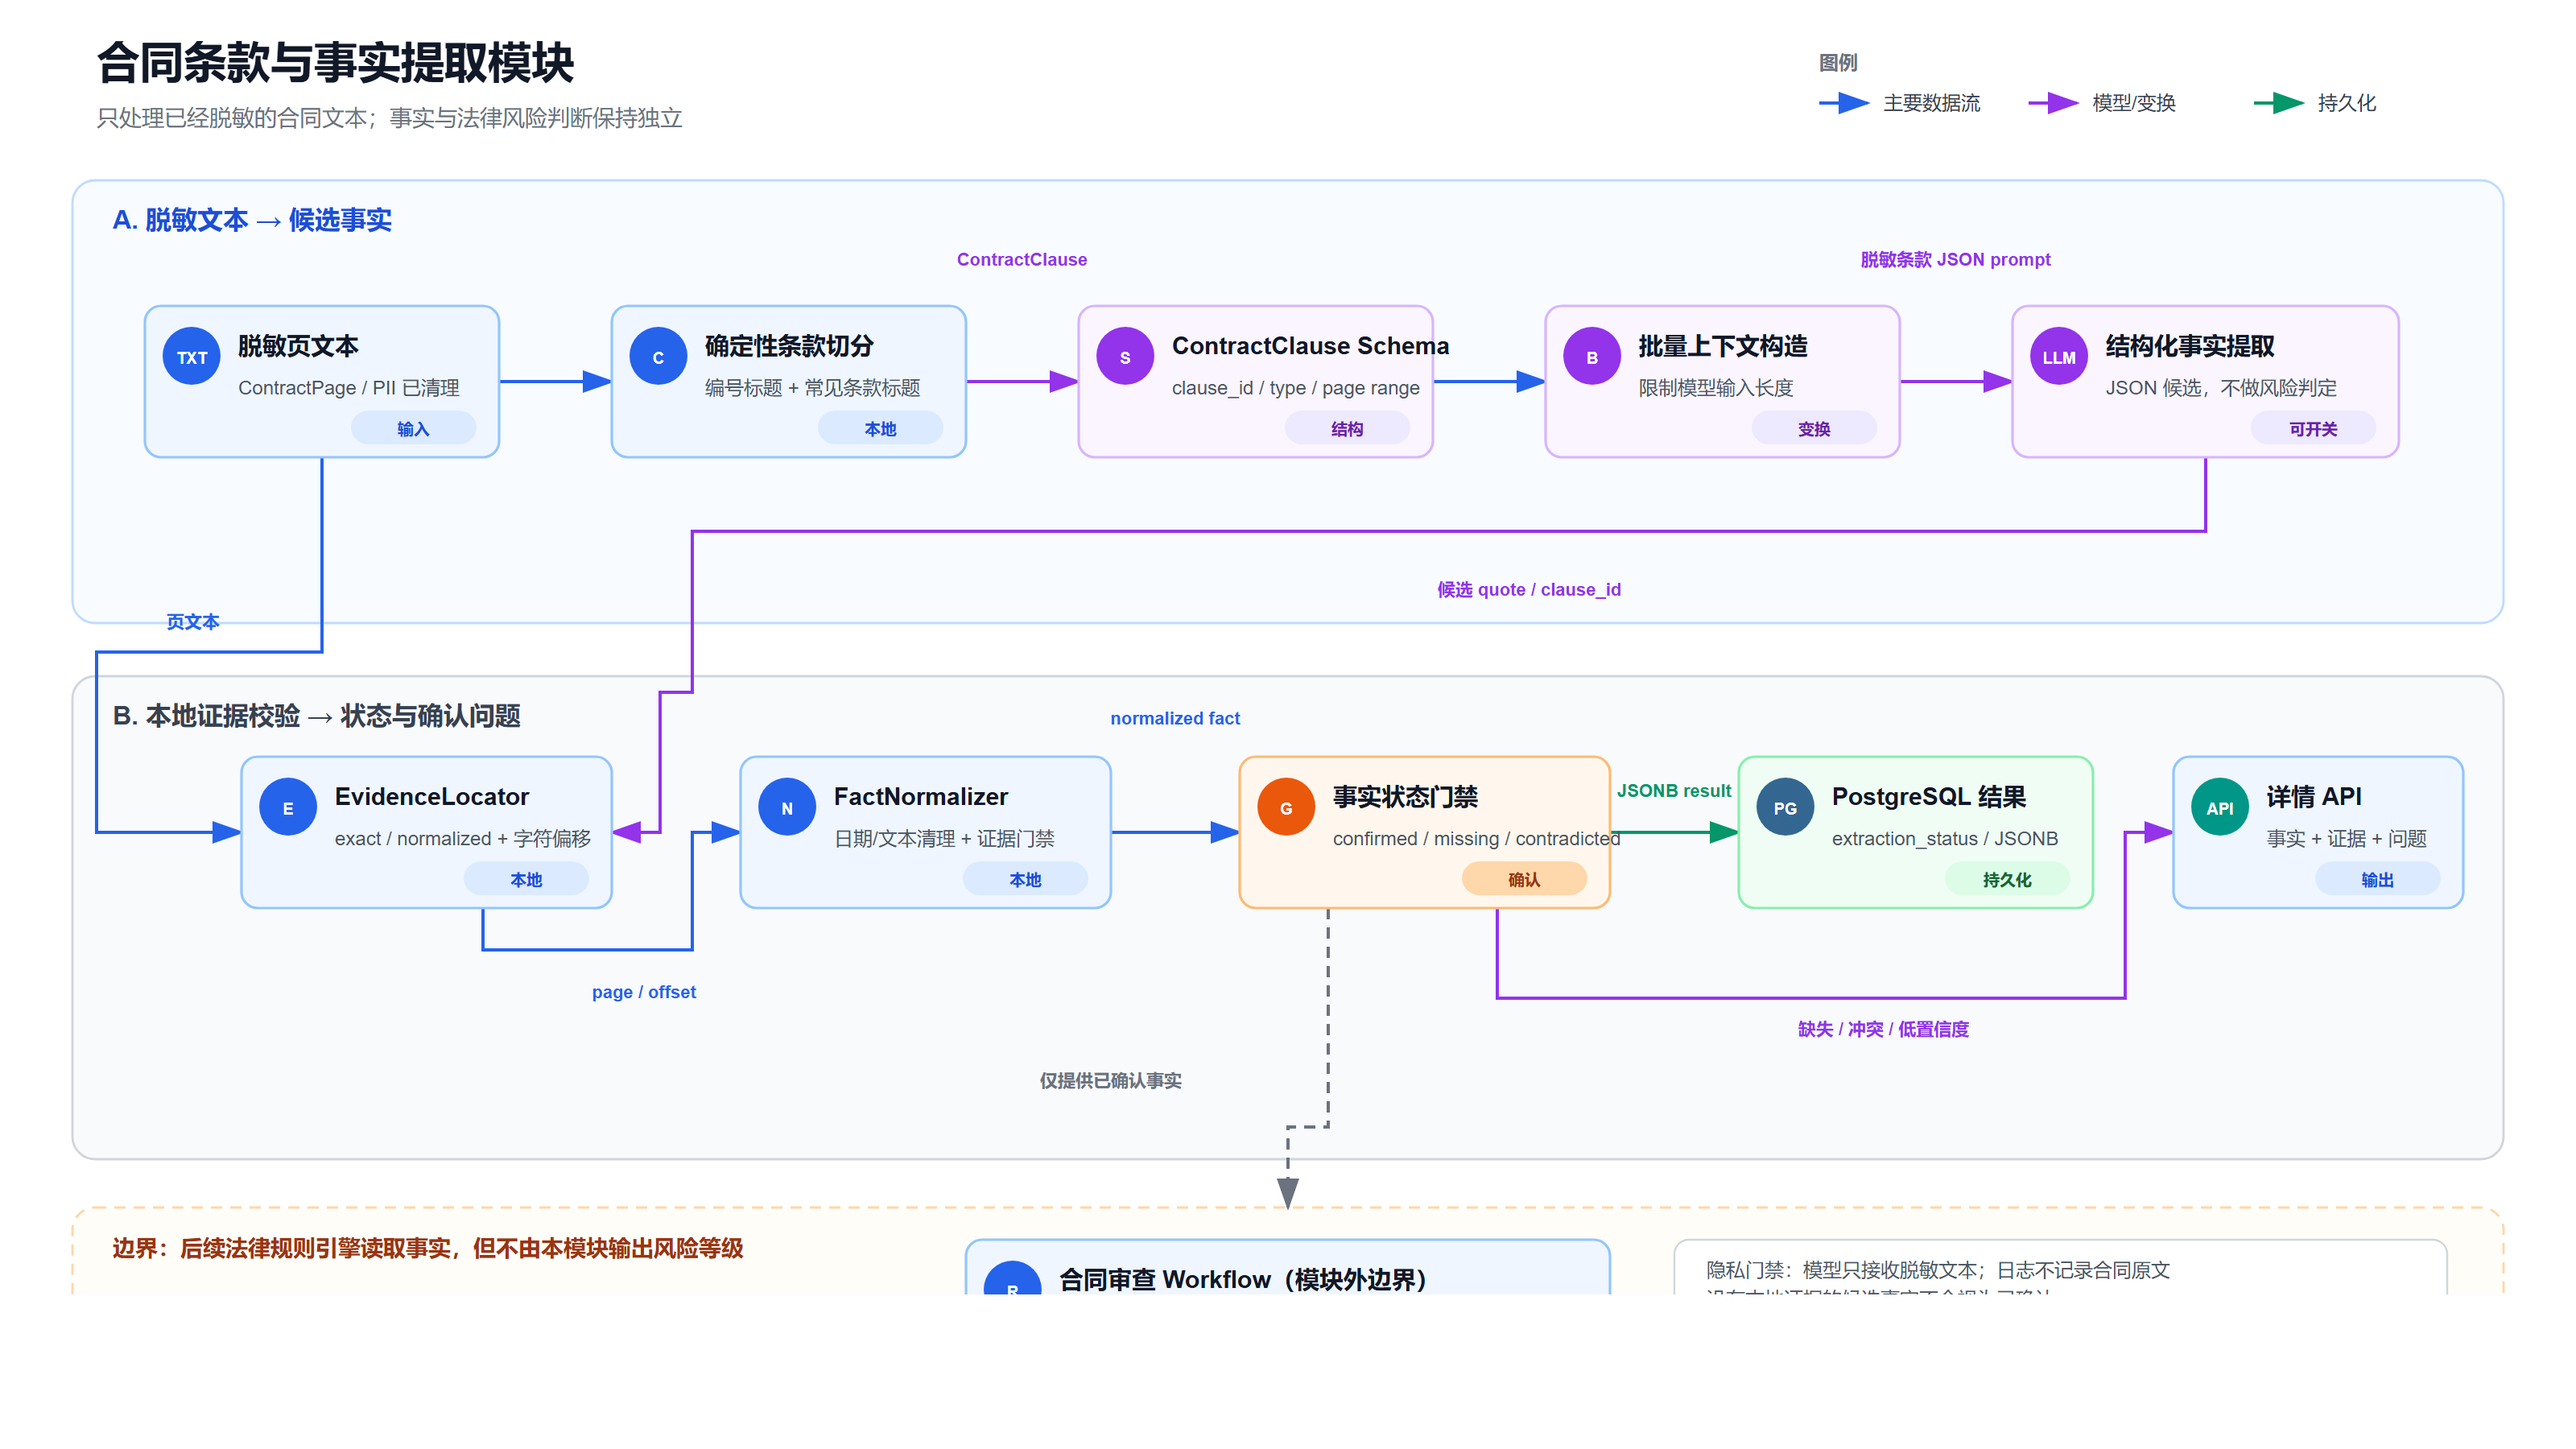
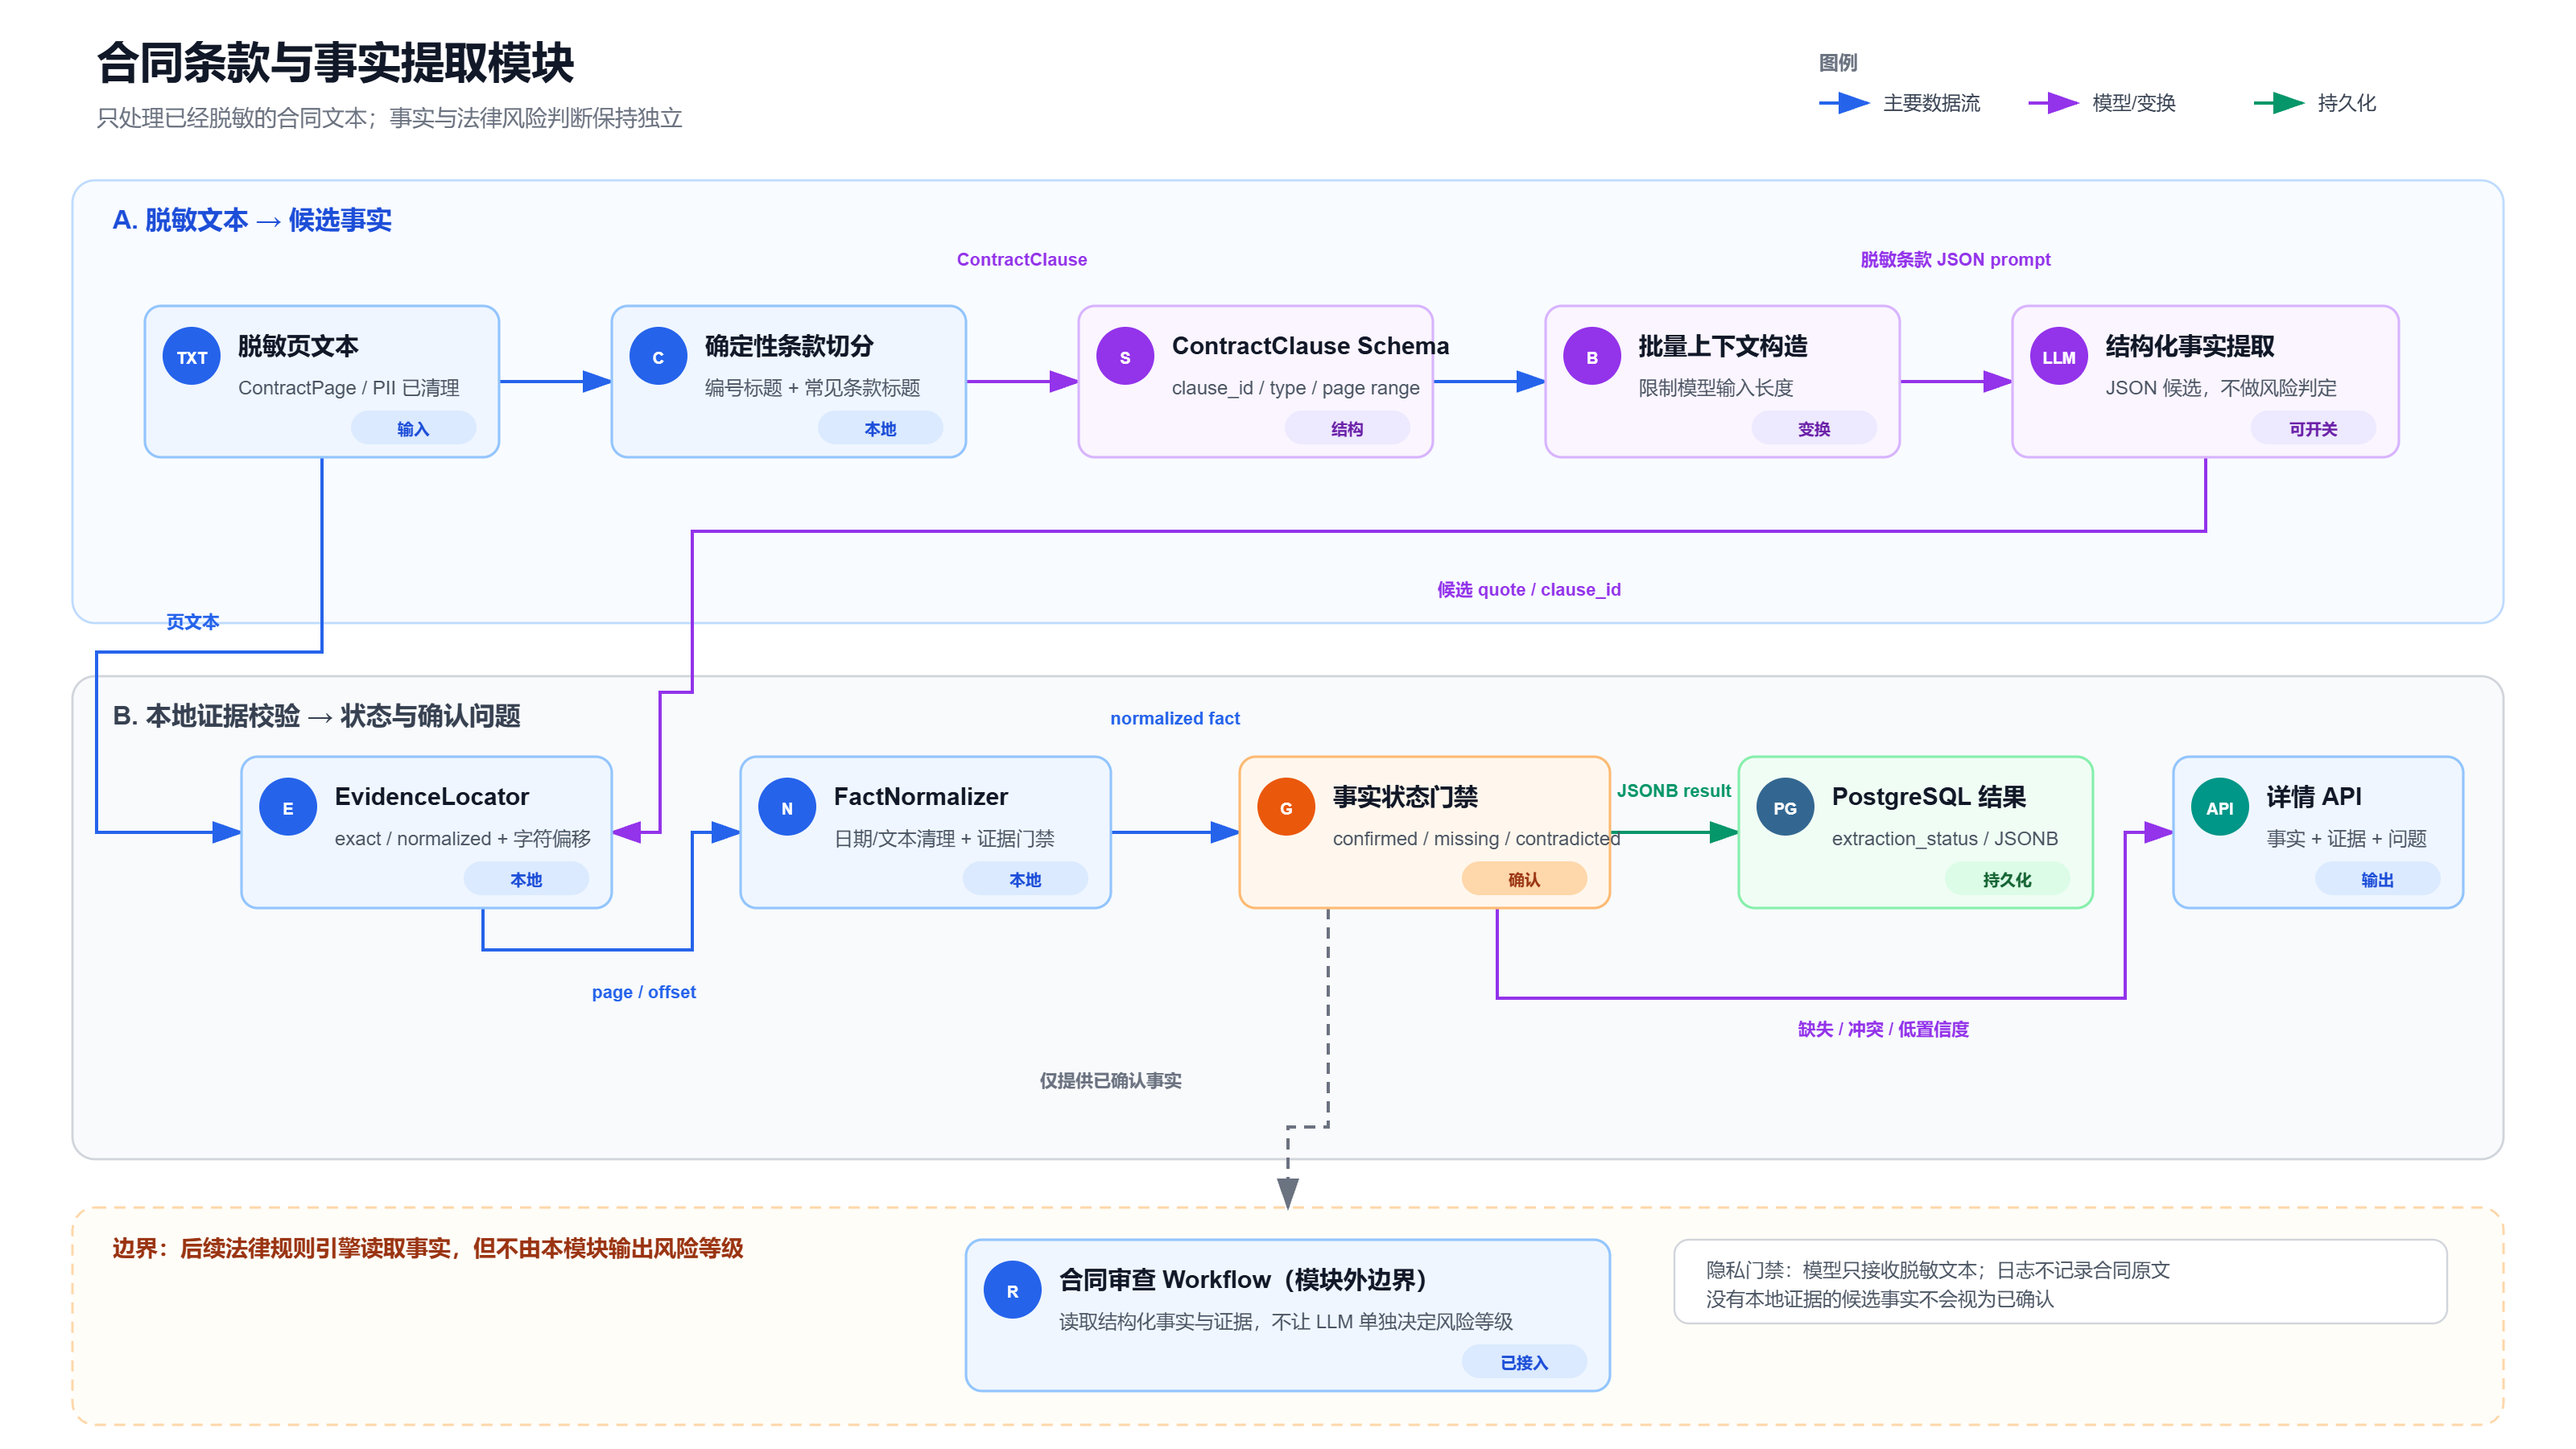
Fix README diagram export and layout

diff --git a/docs/contract-fact-confirmation-flow.py b/docs/contract-fact-confirmation-flow.py
@@ -213,13 +213,13 @@ def build_svg() -> str:
     edge(lines, "e-corrected-snapshot", "M1300 582 H1040 V790 H745 V840", source="corrected-contract", target="effective-snapshot", color="#059669", marker="arrow-green", label="合同修正值 + 新证据", label_x=820, label_y=775)
     edge(lines, "e-supplement-snapshot", "M1115 638 H1040 V790 H745 V840", source="supplement-user", target="effective-snapshot", color="#9333ea", marker="arrow-purple", label="用户补充值", label_x=980, label_y=775)
     edge(lines, "e-na-snapshot", "M610 638 H650 V790 H745 V840", source="not-applicable", target="effective-snapshot", color="#6b7280", marker="arrow-gray", label="无适用值", label_x=680, label_y=775)
-    edge(lines, "e-defer-status", "M1395 743 H1580 V960 H1570", source="defer-review", target="status-gate", color="#6b7280", marker="arrow-gray", label="保留待处理", label_x=1510, label_y=770)
+    edge(lines, "e-defer-status", "M1395 743 H1560 V960 H1390", source="defer-review", target="status-gate", color="#6b7280", marker="arrow-gray", label="保留待处理", label_x=1510, label_y=770)
     edge(lines, "e-reject-supplement", "M1530 581 V620 H1405 V638 H1395", source="correction-rejected", target="supplement-user", color="#ea580c", marker="arrow-orange", label="不得伪造合同证据", label_x=1510, label_y=610, dashed=True)
     edge(lines, "e-snapshot-audit", "M880 895 H990", source="effective-snapshot", target="audit-event", color="#059669", marker="arrow-green", label="保留三层 provenance", label_x=935, label_y=872)
     edge(lines, "e-audit-revision", "M1200 895 H1300", source="audit-event", target="revision-store", color="#059669", marker="arrow-green", label="事件 + revision", label_x=1250, label_y=872)
-    edge(lines, "e-revision-gate", "M1510 895 H1600 V960 H1500", source="revision-store", target="status-gate", color="#059669", marker="arrow-green", label="幂等/乐观锁", label_x=1580, label_y=930)
-    edge(lines, "e-gate-ready", "M1570 1016 H1600", source="status-gate", target="legal-gate", color="#059669", marker="arrow-green", label="全部必答项已解决", label_x=1585, label_y=988)
-    edge(lines, "e-gate-pending", "M1320 1016 H1270 V1080 H1210", source="status-gate", target="pending-questions", color="#ea580c", marker="arrow-orange", label="仍缺失/暂不确认", label_x=1260, label_y=1100)
+    edge(lines, "e-revision-gate", "M1405 952 H1385 V960", source="revision-store", target="status-gate", color="#059669", marker="arrow-green", label="幂等/乐观锁", label_x=1500, label_y=930)
+    edge(lines, "e-gate-ready", "M1510 1016 H1540", source="status-gate", target="legal-gate", color="#059669", marker="arrow-green", label="全部必答项已解决", label_x=1525, label_y=988)
+    edge(lines, "e-gate-pending", "M1260 1016 H1210 V1080 H1210", source="status-gate", target="pending-questions", color="#ea580c", marker="arrow-orange", label="仍缺失/暂不确认", label_x=1260, label_y=1100)
 
     # Top lane.
     card(lines, "extraction-result", 90, 165, 320, "提取结果", "ContractFact[] + 结构化问题", fill="#eff6ff", stroke="#93c5fd", badge="F", badge_fill="#2563eb", status="输入", status_fill="#dbeafe", status_text="#1d4ed8")
@@ -244,8 +244,8 @@ def build_svg() -> str:
     card(lines, "effective-snapshot", 610, 840, 270, "有效事实快照", "effective_value + source + state", fill="#eff6ff", stroke="#93c5fd", badge="S", badge_fill="#2563eb", status="可供规则层", status_fill="#dbeafe", status_text="#1d4ed8")
     card(lines, "audit-event", 990, 840, 210, "确认事件", "append-only JSONB", fill="#f0fdf4", stroke="#86efac", badge="A", badge_fill="#059669", status="可追溯", status_fill="#dcfce7", status_text="#166534")
     card(lines, "revision-store", 1300, 840, 210, "版本控制", "base_revision + request_id", fill="#f0fdf4", stroke="#86efac", badge="R", badge_fill="#059669", status="幂等", status_fill="#dcfce7", status_text="#166534")
-    card(lines, "status-gate", 1320, 960, 250, "确认状态门禁", "pending / in_progress / completed", fill="#fff7ed", stroke="#fdba74", badge="G", badge_fill="#ea580c", status="状态机", status_fill="#fed7aa", status_text="#9a3412")
-    card(lines, "legal-gate", 1600, 960, 120, "法律分析", "仅接收已确认事实", fill="#f0fdf4", stroke="#86efac", badge="→", badge_fill="#059669", status="ready", status_fill="#dcfce7", status_text="#166534", height=112)
+    card(lines, "status-gate", 1260, 960, 250, "确认状态门禁", "pending / in_progress / completed", fill="#fff7ed", stroke="#fdba74", badge="G", badge_fill="#ea580c", status="状态机", status_fill="#fed7aa", status_text="#9a3412")
+    card(lines, "legal-gate", 1540, 960, 210, "法律分析", "仅接收已确认事实", fill="#f0fdf4", stroke="#86efac", badge="→", badge_fill="#059669", status="ready", status_fill="#dcfce7", status_text="#166534", height=112)
     card(lines, "pending-questions", 930, 1000, 280, "待补充问题", "缺失 / 冲突 / 暂不确认项", fill="#fff7ed", stroke="#fdba74", badge="?", badge_fill="#ea580c", status="阻断", status_fill="#fed7aa", status_text="#9a3412")
 
     add(lines, '<rect data-graph-role="note" x="70" y="1080" width="800" height="26" rx="8" fill="#ffffff" stroke="#d1d5db" stroke-width="1.2"/>')

diff --git a/docs/user-registration-tenant-isolation.py b/docs/user-registration-tenant-isolation.py
@@ -260,8 +260,8 @@ def build_svg() -> str:
     card(lines, "domain-api", 790, 490, 300, "API + Service", "user_id 进入业务调用上下文", fill="#faf5ff", stroke="#d8b4fe", badge="SVC", badge_fill="#9333ea", status="带身份", status_fill="#ede9fe", status_text="#6b21a8")
     decision(lines, "owner-gate", 1220, 540, 100, 40, "归属一致?", "owner = user_id")
     card(lines, "scoped-repository", 1450, 480, 280, "Repository 作用域", "WHERE user_id = JWT.sub", fill="#f0fdf4", stroke="#86efac", badge="SQL", badge_fill="#059669", status="隔离查询", status_fill="#dcfce7", status_text="#166534", height=140)
-    card(lines, "unauthorized", 470, 650, 180, "401", "令牌无效或过期", fill="#fff7ed", stroke="#fdba74", badge="!", badge_fill="#ea580c", status="拒绝", status_fill="#fed7aa", status_text="#9a3412", height=70)
-    card(lines, "forbidden", 1130, 650, 180, "403", "资源不属于当前用户", fill="#fff7ed", stroke="#fdba74", badge="!", badge_fill="#ea580c", status="拒绝", status_fill="#fed7aa", status_text="#9a3412", height=70)
+    card(lines, "unauthorized", 450, 650, 220, "401", "令牌无效或过期", fill="#fff7ed", stroke="#fdba74", badge="!", badge_fill="#ea580c", status="拒绝", status_fill="#fed7aa", status_text="#9a3412", height=96)
+    card(lines, "forbidden", 1110, 650, 220, "403", "资源不属于当前用户", fill="#fff7ed", stroke="#fdba74", badge="!", badge_fill="#ea580c", status="拒绝", status_fill="#fed7aa", status_text="#9a3412", height=96)
 
     # Capability boundary lane.
     card(lines, "personal-space", 100, 895, 360, "个人隔离空间", "sessions · contract_reviews · reports", fill="#f0fdf4", stroke="#86efac", badge="U", badge_fill="#059669", status="已实现", status_fill="#dcfce7", status_text="#166534")

diff --git a/docs/README.md b/docs/README.md
@@ -1,8 +1,10 @@
 # 项目文档索引
 
-> 更新时间：2026-08-01
+> 更新时间：2026-08-02
 >
 > 本目录区分当前实现、可执行 Runbook、评测记录和历史经验。文档中的“已完成”必须能在当前源码、Compose 配置或评测 `summary.json` 中找到证据。
+>
+> 流程图的 PNG 预览按 SVG 原始画布尺寸以 2x 分辨率导出，避免底部裁剪；需要检查细节时，请打开同目录中同名的 `.svg` 源图。
 
 ## 推荐阅读顺序
 

diff --git a/README.md b/README.md
@@ -8,6 +8,8 @@
 
 当前实现的三张总图分别回答三个问题：Workflow 如何审查合同、聊天与合同如何共享会话、JSON/数据库/私有文件/Qdrant 的边界在哪里。
 
+> 图中 PNG 均按 SVG 原始画布尺寸以 2x 分辨率导出，避免 README 预览出现底部裁剪；需要放大查看时，可打开文档目录中同名的 `.svg` 源图。
+
 ![统一会话数据流](docs/chat-route-data-flow.png)
 
 ![存储边界](docs/storage-boundary.png)
